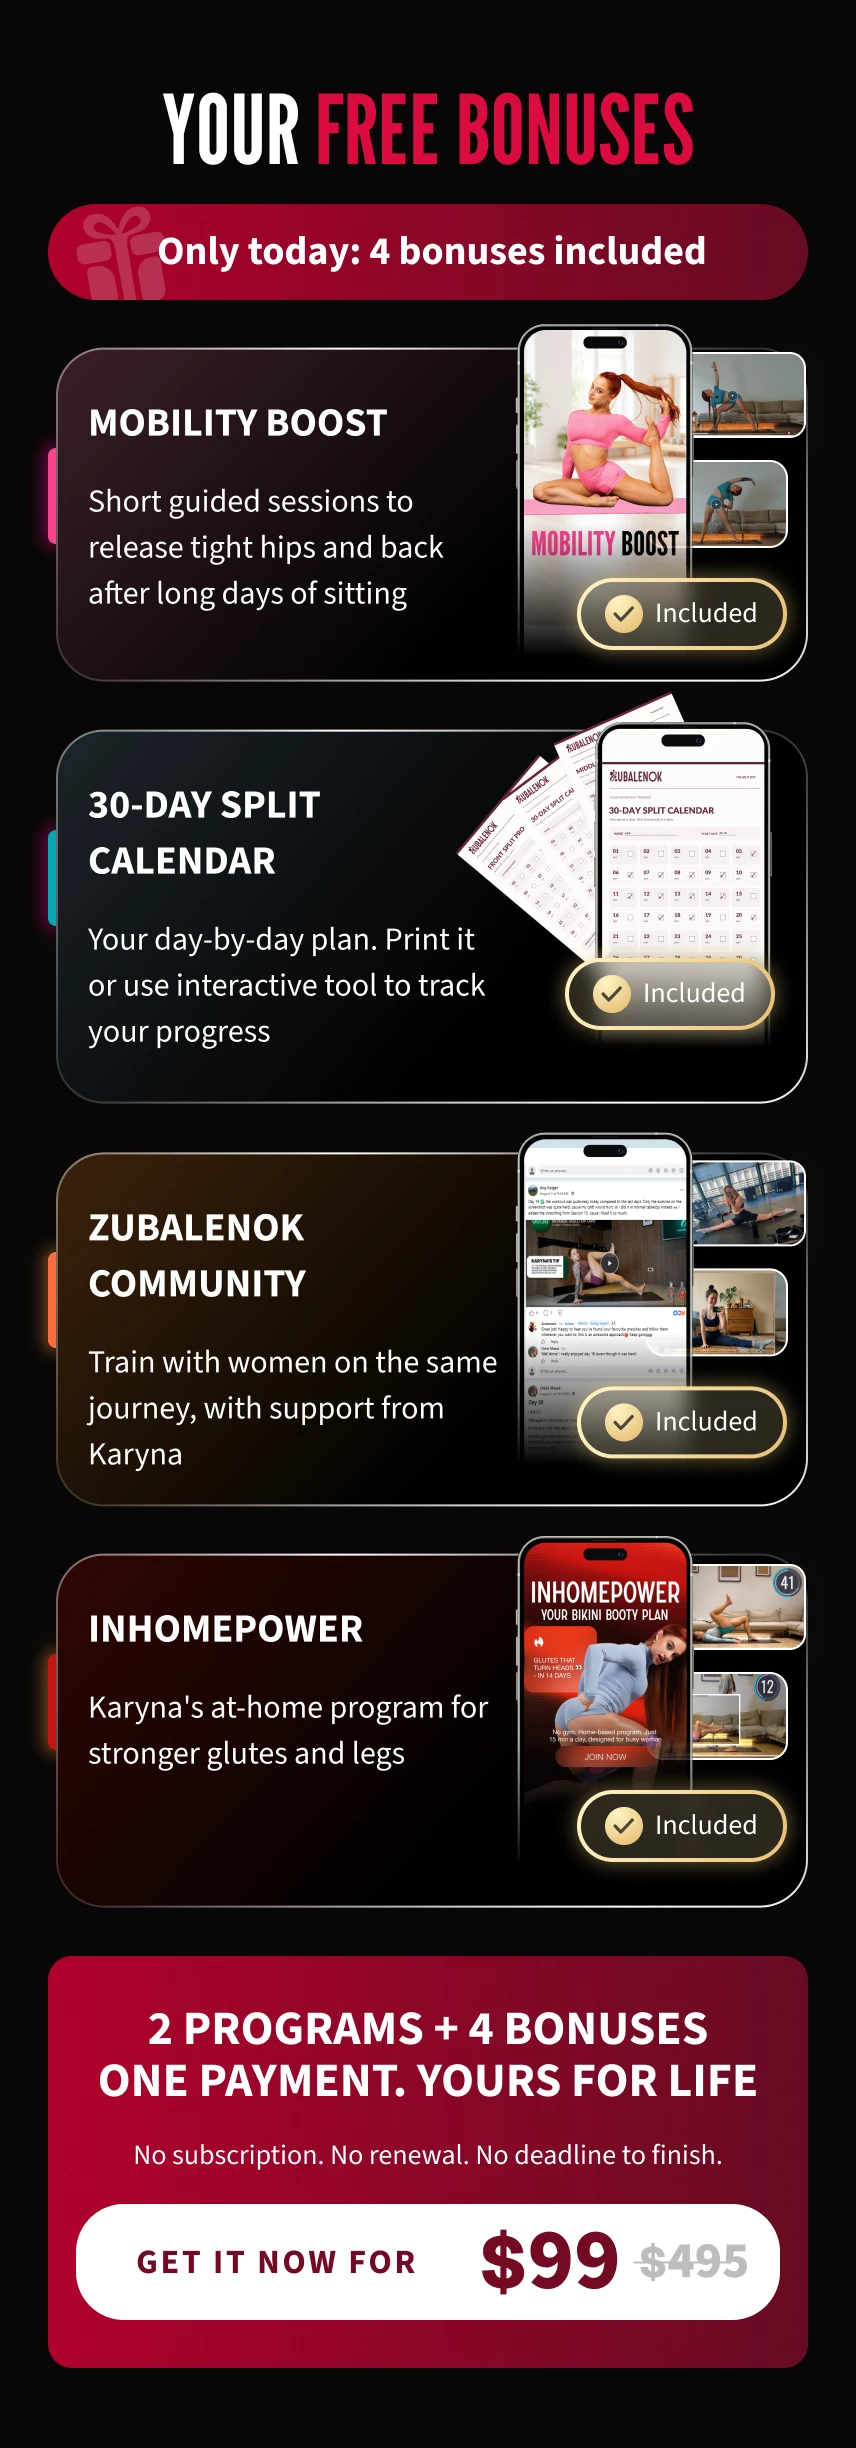
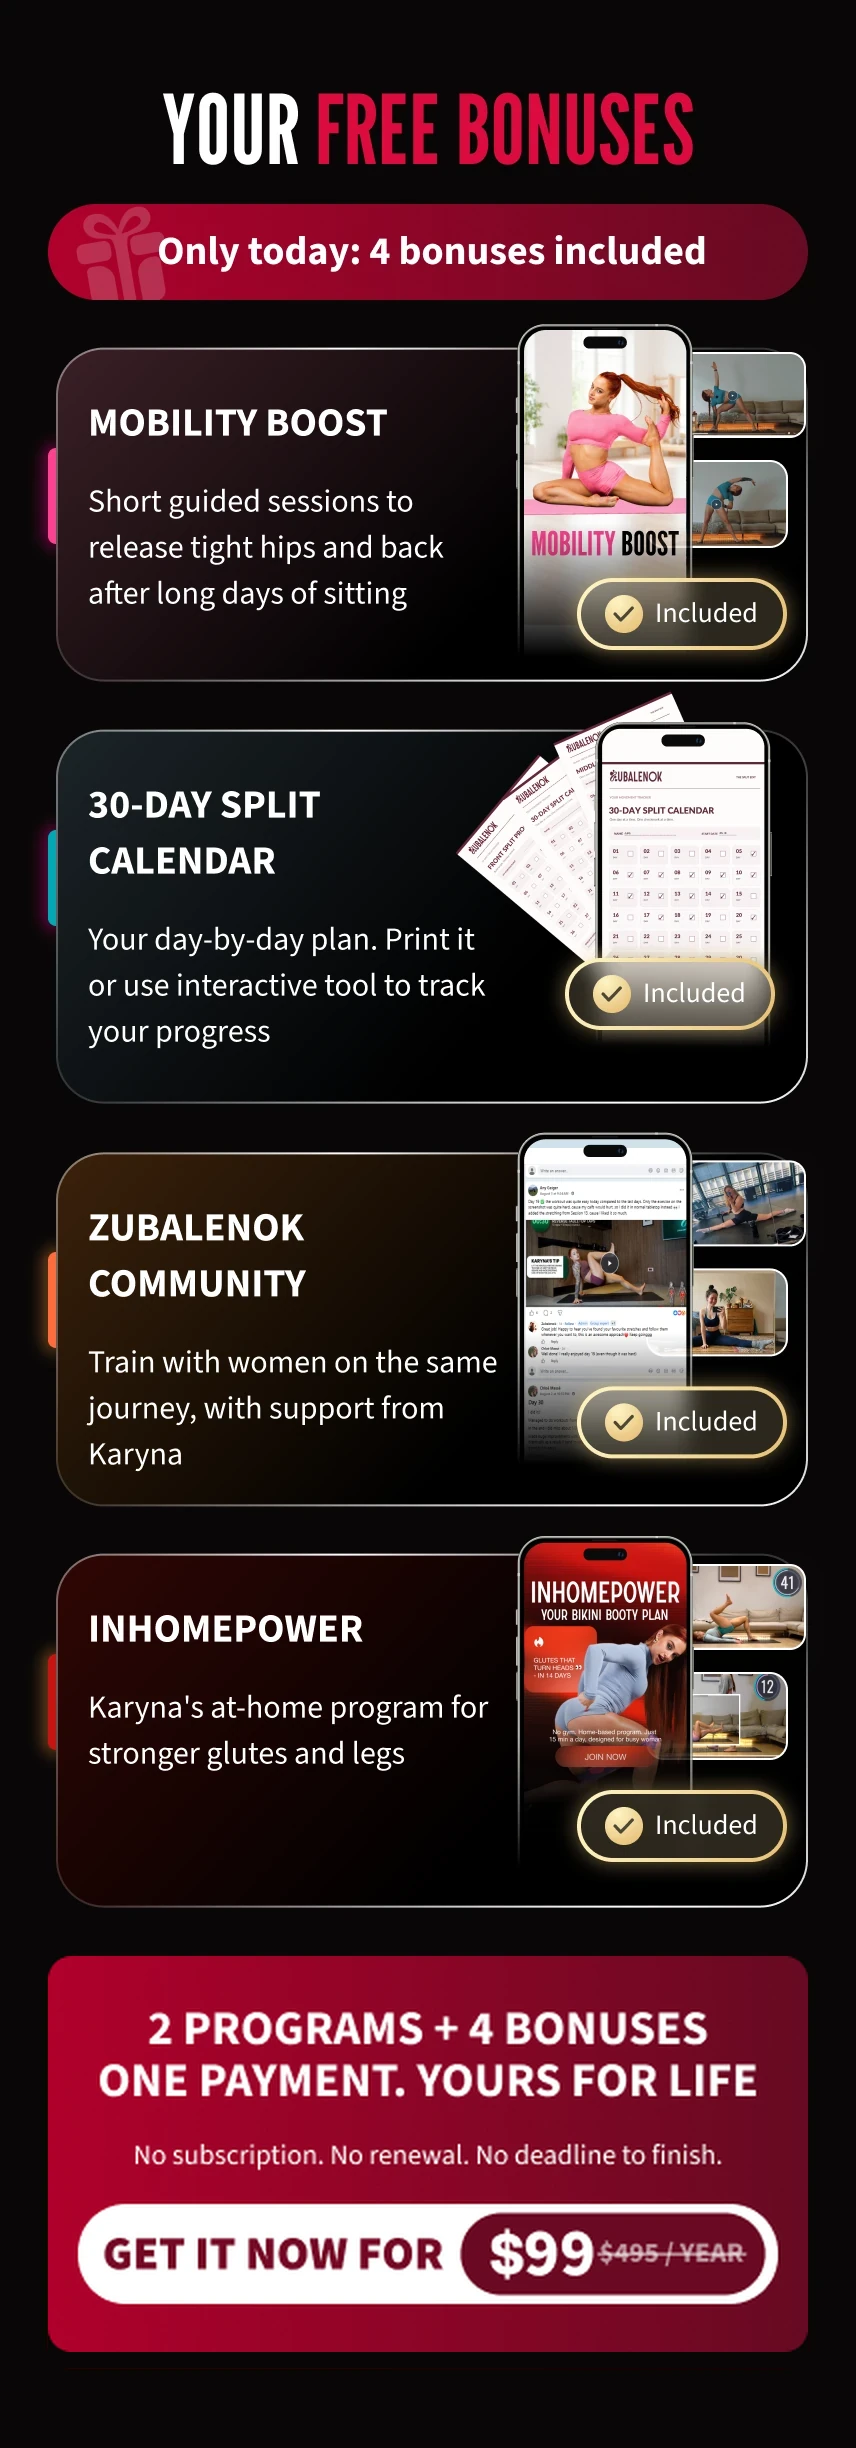
Update illustration captions, price block and CTA geometry
- excited: remove the bottom-left "video lessons" caption and its arrow
- bonuses: replace price block with the new Figma design (node 7927:5523)
- index: adjust CTA link box to match the new 350x50 button

Changed region(s): [[0.0607, 0.8072, 0.9416, 0.9935], [0.8201, 0.8382, 0.8808, 0.8693], [0.5467, 0.8072, 0.5771, 0.8382]]

diff --git a/index.html b/index.html
@@ -705,7 +705,7 @@ position: relative;
 <!-- FIG:bonuses -->
 <div class="fig-sec fig-bonuses" style="position:relative;width:428px;height:1224px;margin:0 auto;overflow:hidden">
 <img src="assets/img/flat/bonuses.webp" width="428" height="1224" alt="" style="position:absolute;left:0;top:0;width:428px;height:1224px;display:block">
-<a href="https://zubalenok.online/shop/item/13297" data-pay="v1" aria-label="Get it now for $99" style="position:absolute;left:38px;top:1102px;width:352px;height:58px;border-radius:24px"></a>
+<a href="https://zubalenok.online/shop/item/13297" data-pay="v1" aria-label="Get it now for $99" style="position:absolute;left:39px;top:1102px;width:350px;height:50px;border-radius:25px"></a>
 </div>
 <!-- /FIG:bonuses -->
   <div class="s5">
